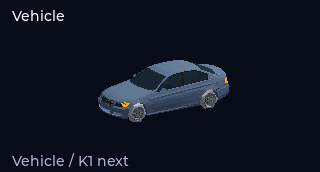
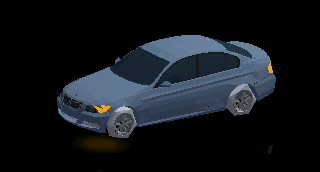
Show fullscreen E90 with surface lighting and dark drift intro

Changed region(s): [[0.1562, 0.2035, 0.875, 0.8721], [0.0312, 0.9012, 0.4062, 0.9884], [0.0312, 0.0581, 0.2188, 0.1453]]

diff --git a/firmware/wheel/components/wheel_ui/vehicle_3d.cpp b/firmware/wheel/components/wheel_ui/vehicle_3d.cpp
@@ -9,7 +9,7 @@
 #include "esp_timer.h"
 #endif
 namespace {
-constexpr unsigned W = 192, H = 104;
+constexpr unsigned W = VEHICLE_3D_WIDTH, H = VEHICLE_3D_HEIGHT;
 constexpr auto SH = tgx::SHADER_ORTHO | tgx::SHADER_ZBUFFER | tgx::SHADER_FLAT |
                     tgx::SHADER_NOTEXTURE;
 tgx::Renderer3D<tgx::RGB565, SH | tgx::SHADER_UNLIT, uint16_t> renderer;
@@ -29,6 +29,40 @@ float rad(float d) { return d * PI / 180; }
 float smooth(float x) {
   x = fmaxf(0, fminf(1, x));
   return x * x * (3 - 2 * x);
+}
+tgx::fVec3 world_point(tgx::fVec3 p, float sn, float cs, float tx, float ty) {
+  return tgx::fVec3(p.x * cs - p.y * sn + tx, p.x * sn + p.y * cs + ty, p.z);
+}
+uint16_t dim_color(uint16_t c, float factor) {
+  factor = fmaxf(0.f, fminf(1.f, factor));
+  return (uint16_t)((unsigned)(((c >> 11) & 31) * factor) << 11 |
+                    (unsigned)(((c >> 5) & 63) * factor) << 5 |
+                    (unsigned)((c & 31) * factor));
+}
+void unlit(uint16_t c) {
+  renderer.setShaders(tgx::SHADER_ORTHO | tgx::SHADER_ZBUFFER |
+                      tgx::SHADER_UNLIT | tgx::SHADER_NOTEXTURE);
+  renderer.setMaterial(tgx::RGBf(tgx::RGB565(c)), 1, 0, 0, 0);
+}
+// Bounded layered ground illumination; no off-screen pass or framebuffer copy.
+void ground_light(float x, float y, float rx, float ry, uint16_t c,
+                  float strength, float sn, float cs, float tx, float ty) {
+  for (unsigned layer = 0; layer < 5; ++layer) {
+    float scale = 1.f - layer * .14f;
+    unlit(dim_color(c, strength * (.05f + .035f * layer)));
+    float z = -.168f + layer * .0008f;
+    auto center = world_point(tgx::fVec3(x, y, z), sn, cs, tx, ty);
+    for (unsigned k = 0; k < 12; ++k) {
+      float a = 2 * PI * k / 12, b = 2 * PI * (k + 1) / 12;
+      auto p = world_point(
+          tgx::fVec3(x + rx * scale * cosf(a), y + ry * scale * sinf(a), z), sn,
+          cs, tx, ty);
+      auto q = world_point(
+          tgx::fVec3(x + rx * scale * cosf(b), y + ry * scale * sinf(b), z), sn,
+          cs, tx, ty);
+      renderer.drawTriangle(center, p, q);
+    }
+  }
 }
 void *allocate(size_t n) {
 #ifdef ESP_PLATFORM
@@ -85,7 +119,10 @@ extern "C" const lv_image_dsc_t *vehicle_3d_frame(uint64_t now, bool boot,
   if (!pixels)
     return nullptr;
   bool fresh = !active;
-  if (lamp_view_until && now >= lamp_view_until) { lamp_view_until = 0; moving = true; }
+  if (lamp_view_until && now >= lamp_view_until) {
+    lamp_view_until = 0;
+    moving = true;
+  }
   uint32_t input = (uint32_t)open | ((uint32_t)known << 8) |
                    ((uint32_t)valid << 16) | ((uint32_t)on << 24);
   if (active && !boot && !moving && input == last_input)
@@ -132,12 +169,21 @@ extern "C" const lv_image_dsc_t *vehicle_3d_frame(uint64_t now, bool boot,
     target_yaw = -58;
   else if ((open & 16) && !(open & 32))
     target_yaw = 155;
-  float move = 0;
+  float move = 0, root_yaw = 0, root_x = 0, root_y = 0;
+  float reveal = 1.f, angel_strength = 1.f;
+  float half_width;
   if (boot) {
-    float orbit = smooth((progress - .22f) / .62f);
-    yaw = orbit * 360;
-    elevation = 20 + 8 * sinf(orbit * PI);
-    move = 7 * (1 - smooth(progress / .22f));
+    float drift = smooth((progress - .58f) / .38f);
+    yaw = 0;
+    elevation = 6 + 8 * drift;
+    angel_strength = smooth((progress - .10f) / .16f);
+    reveal = smooth((progress - .30f) / .24f);
+    half_width =
+        2.55f - .70f * smooth((progress - .24f) / .30f) + 1.55f * drift;
+    root_yaw = rad(-72.f * smooth((progress - .58f) / .20f));
+    root_x = 8.f * drift * drift;
+    root_y = .7f * sinf(drift * PI);
+    move = 6.f * drift;
   } else {
     if (fresh) {
       yaw = 0;
@@ -148,18 +194,40 @@ extern "C" const lv_image_dsc_t *vehicle_3d_frame(uint64_t now, bool boot,
     elevation += (target_elev - elevation) * (1 - expf(-dt * 5));
     if (fabsf(delta) > .05f || fabsf(target_elev - elevation) > .05f)
       moving = true;
+    half_width = 2.7f + .55f * fabsf(sinf(rad(yaw))) +
+                 1.45f * smooth((elevation - 25.f) / 33.f);
+    if (known != 63 || valid != 63)
+      reveal = .45f;
   }
-  float half_width = 2.7f + .55f * fabsf(sinf(rad(yaw))) +
-                     1.45f * smooth((elevation - 25.f) / 33.f);
+  float root_sn = sinf(root_yaw), root_cs = cosf(root_yaw);
   renderer.setOrtho(-half_width, half_width, -half_width * H / W,
                     half_width * H / W, 1, 30);
+  float target_z = boot ? .30f : .48f;
   float az = rad(yaw), el = rad(elevation);
   renderer.setLookAt(tgx::fVec3(10 * sinf(az) * cosf(el),
                                 -10 * cosf(az) * cosf(el),
-                                .65f + 10 * sinf(el)),
-                     tgx::fVec3(0, 0, .65f), tgx::fVec3(0, 0, 1));
-  image.fillScreen(tgx::RGB565((uint16_t)0x0863));
+                                target_z + 10 * sinf(el)),
+                     tgx::fVec3(0, 0, target_z), tgx::fVec3(0, 0, 1));
+  image.fillScreen(tgx::RGB565((uint16_t)0));
   renderer.clearZbuffer();
+  uint8_t floor_lamps = boot ? 4 : active_lamps;
+  float floor_strength = boot ? angel_strength : 1.f;
+  if (floor_lamps & 7) {
+    float energy = (floor_lamps & 3) ? 1.f : .45f;
+    for (int side = -1; side <= 1; side += 2)
+      ground_light(side * .62f, -2.45f, .50f, .8f, 0xbfff,
+                   energy * floor_strength, root_sn, root_cs, root_x, root_y);
+  }
+  if (floor_lamps & 8)
+    ground_light(.85f, -1.90f, .65f, .55f, 0xfd20, 1, root_sn, root_cs, root_x,
+                 root_y);
+  if (floor_lamps & 16)
+    ground_light(-.85f, -1.90f, .65f, .55f, 0xfd20, 1, root_sn, root_cs, root_x,
+                 root_y);
+  if (floor_lamps & 32)
+    for (int side = -1; side <= 1; side += 2)
+      ground_light(side * .6f, 2.55f, .55f, .65f, 0xf800, 1, root_sn, root_cs,
+                   root_x, root_y);
   float sn[7] = {}, cs[7] = {1, 1, 1, 1, 1, 1, 1};
   for (unsigned i = 1; i <= 6; i++) {
     float a = angles[i] * rad(i <= 4 ? ((i == 1 || i == 3) ? -52 : 52)
@@ -194,7 +262,7 @@ extern "C" const lv_image_dsc_t *vehicle_3d_frame(uint64_t now, bool boot,
         y = py + yy * wheel_cos - zz * wheel_sin;
         z = pz + yy * wheel_sin + zz * wheel_cos;
       }
-      v[j] = tgx::fVec3(x, y + move, z);
+      v[j] = world_point(tgx::fVec3(x, y, z), root_sn, root_cs, root_x, root_y);
     }
     uint16_t color = t.color;
     bool emissive = false;
@@ -202,8 +270,8 @@ extern "C" const lv_image_dsc_t *vehicle_3d_frame(uint64_t now, bool boot,
     if (lampbit) {
       bool lit = (valid & on & lampbit) != 0;
       if (boot)
-        lit = g == 7 || (progress > .86f && ((int)(progress * 28) % 2 == 0));
-      color = lit ? 0xefbf : 0x2125;
+        lit = g == 7 && angel_strength > 0;
+      color = lit ? dim_color(0xefff, boot ? angel_strength : 1.f) : 0x2125;
       emissive = lit;
     }
     if (g >= 13 && g <= 16) {
@@ -211,9 +279,7 @@ extern "C" const lv_image_dsc_t *vehicle_3d_frame(uint64_t now, bool boot,
       float cx = fabsf((t.v[0] + t.v[3] + t.v[6]) / 3.f);
       bool indicator =
           (active_lamps & (left_lamp ? 8 : 16)) && cx > (front ? .68f : .57f);
-      bool white =
-          front && ((active_lamps & 3) || (boot && progress > .86f &&
-                                           ((int)(progress * 28) % 2 == 0)));
+      bool white = front && (active_lamps & 3);
       bool brake = !front && (active_lamps & 32);
       if (indicator && !boot) {
         color = 0xfd20;
@@ -225,6 +291,19 @@ extern "C" const lv_image_dsc_t *vehicle_3d_frame(uint64_t now, bool boot,
         color = 0xf800;
         emissive = true;
       }
+    }
+    if (!emissive)
+      color = dim_color(color, reveal);
+    if (emissive) {
+      // A dim mirrored light image below the virtual floor complements the
+      // pool. Only luminous surfaces are mirrored, avoiding a second full-car
+      // render.
+      unlit(dim_color(color, .16f));
+      tgx::fVec3 reflected[3];
+      for (unsigned k = 0; k < 3; k++)
+        reflected[k] = tgx::fVec3(v[k].x, v[k].y, -.336f - v[k].z);
+      renderer.drawTriangle(reflected[0], reflected[1], reflected[2]);
+      material_key = 0xffffffff;
     }
     uint32_t key = color | (emissive ? 0x10000u : 0);
     if (key != material_key) {

diff --git a/tests/host/ui_render.c b/tests/host/ui_render.c
@@ -200,7 +200,7 @@ static void verify_source_equivalence(void) {
        "closure masks");
 }
 static void verify_engine_pixels(void) {
-  uint16_t before[192 * 104];
+  uint16_t before[VEHICLE_3D_WIDTH * VEHICLE_3D_HEIGHT];
   for (unsigned bit = 0; bit < 6; ++bit) {
     uint8_t mask = bit == 5 ? 16 : bit == 3 ? 1 : bit == 4 ? 2 : 0;
     const lv_image_dsc_t *frame = NULL;
@@ -221,14 +221,27 @@ static void verify_engine_pixels(void) {
     frame =
         vehicle_3d_frame(test_clock += 50, false, 0, mask, 63, 63, 1u << bit);
     unsigned changed = 0;
-    for (unsigned i = 0; i < 192 * 104; ++i)
+    for (unsigned i = 0; i < VEHICLE_3D_WIDTH * VEHICLE_3D_HEIGHT; ++i)
       changed += before[i] != ((const uint16_t *)frame->data)[i];
     printf("Runtime model lamp bit%u changed %u pixels\n", bit, changed);
     assert(changed > 0);
+    frame = vehicle_3d_frame(test_clock += 50, false, 0, mask, 63, 0, 0);
+    memcpy(before, frame->data, sizeof(before));
     frame = vehicle_3d_frame(test_clock += 50, false, 0, mask, 63, 0, 63);
     assert(!memcmp(before, frame->data,
-                   sizeof(before))); /* invalid cannot illuminate */
+                   sizeof(before))); /* invalid on bits cannot illuminate;
+                                        unknown may be muted */
   }
+}
+static void verify_fullscreen(const ui_view_state_t *s) {
+  const lv_image_dsc_t *frame =
+      vehicle_3d_frame(s->now_ms, s->boot, s->boot_progress,
+                       s->boot ? s->reading.closure_open : s->doors.open,
+                       s->boot ? s->reading.closure_known : s->doors.known,
+                       s->reading.lights_valid, s->reading.lights_on);
+  assert(frame && frame->header.w == 320 && frame->header.h == 172);
+  assert(memcmp(pixels, frame->data, sizeof(pixels)) ==
+         0); /* no labels/icons/gauges */
 }
 static void verify_vehicle(const char *dir) {
   ui_view_state_t s = {.nav = {UI_ENGINE, 0},
@@ -241,7 +254,7 @@ static void verify_vehicle(const char *dir) {
   assert(ui_view_vehicle_ready());
   s.boot = true;
   uint32_t phase_hashes[7] = {0};
-  const float phases[] = {0.0f, 0.12f, 0.3f, 0.5f, 0.7f, 0.9f, 0.97f};
+  const float phases[] = {0.0f, 0.18f, 0.4f, 0.56f, 0.72f, 0.85f, 0.98f};
   for (unsigned i = 0; i < sizeof(phases) / sizeof(phases[0]); ++i) {
     s.now_ms = (test_clock += 50);
     s.boot_progress = phases[i];
@@ -249,6 +262,7 @@ static void verify_vehicle(const char *dir) {
     char name[40];
     snprintf(name, sizeof(name), "runtime-boot-%02u", i);
     capture(dir, name, &s);
+    verify_fullscreen(&s);
     uint32_t hash = 2166136261u;
     for (unsigned px = 0; px < 320 * 172; ++px)
       hash = (hash ^ pixels[px]) * 16777619u;
@@ -264,6 +278,7 @@ static void verify_vehicle(const char *dir) {
     s.doors.open = mask;
     s.now_ms = (test_clock += 50);
     equivalent(&s, false);
+    verify_fullscreen(&s);
   }
   s.doors.open = 1;
   s.doors.known = 0;
@@ -291,6 +306,7 @@ static void verify_vehicle(const char *dir) {
   s.nav.screen = UI_VEHICLE;
   s.doors = (ui_door_state_t){.known = 63};
   capture(dir, "runtime-vehicle-ready", &s);
+  verify_fullscreen(&s);
   s.maintenance = true;
   capture(dir, "runtime-vehicle-paused", &s);
   s.maintenance = false;

diff --git a/firmware/wheel/components/wheel_ui/ui_view.c b/firmware/wheel/components/wheel_ui/ui_view.c
@@ -19,6 +19,7 @@ static const lv_image_dsc_t *last_vehicle_asset;
 static bool vehicle_ready, vehicle_running;
 static uint32_t last_vehicle_generation;
 static ui_vehicle_closing_t closing;
+static ui_screen_t closing_page = (ui_screen_t)99;
 static lv_obj_t *rows[3], *selection, *qr_frame, *qr, *topline, *bottomline;
 static ui_screen_t last_screen = (ui_screen_t)99;
 static unsigned last_item = 99;
@@ -160,8 +161,10 @@ void ui_view_render(const ui_view_state_t *input) {
   bool closure_allowed =
       !input->maintenance && !input->writing && !input->offer && !input->boot &&
       (input->nav.screen == UI_ENGINE || input->nav.screen == UI_SHIFT);
-  if (last_screen != input->nav.screen)
+  if (closing_page != input->nav.screen) {
     closing = (ui_vehicle_closing_t){0};
+    closing_page = input->nav.screen;
+  }
   if (ui_vehicle_closing_step(&closing, input->now_ms, closure_allowed,
                               input->doors.visible, input->doors.open,
                               input->doors.known))
@@ -190,8 +193,10 @@ void ui_view_render(const ui_view_state_t *input) {
   if (asset &&
       (!asset->data || asset->header.magic != LV_IMAGE_HEADER_MAGIC ||
        asset->header.cf != LV_COLOR_FORMAT_RGB565 || asset->header.flags != 0 ||
-       asset->header.w != 192 || asset->header.h != 104 ||
-       asset->header.stride != 384 || asset->data_size != 39936))
+       asset->header.w != VEHICLE_3D_WIDTH ||
+       asset->header.h != VEHICLE_3D_HEIGHT ||
+       asset->header.stride != VEHICLE_3D_WIDTH * 2 ||
+       asset->data_size != VEHICLE_3D_WIDTH * VEHICLE_3D_HEIGHT * 2))
     asset = NULL;
   bool boot = s->boot && asset, has_vehicle = asset != NULL;
   bool drive = s->nav.screen == UI_ENGINE, sport = s->nav.screen == UI_SHIFT;
@@ -203,7 +208,7 @@ void ui_view_render(const ui_view_state_t *input) {
                  qr_layout != use_qr || last_overlay != door ||
                  last_boot != boot || last_vehicle_image != has_vehicle;
   ui_view_state_t graphics_state = *s;
-  if (boot) {
+  if (has_vehicle) {
     graphics_state.nav.screen = UI_SERVICE;
     graphics_state.doors.visible = false;
   }
@@ -216,6 +221,21 @@ void ui_view_render(const ui_view_state_t *input) {
   if (asset && last_vehicle_generation != vehicle_3d_generation()) {
     lv_obj_invalidate(vehicle_image);
     last_vehicle_generation = vehicle_3d_generation();
+  }
+  if (has_vehicle) {
+    /* A successful 3D scene is the whole display: no status or UI overlays. */
+    lv_obj_t *hidden[] = {title,      badge,     body,     bar,
+                          footer,     value,     unit,     provenance,
+                          gear_value, gear_unit, rpm_unit, coolant,
+                          oil,        selection, qr_frame, topline,
+                          bottomline, rows[0],   rows[1],  rows[2]};
+    for (unsigned i = 0; i < sizeof(hidden) / sizeof(hidden[0]); ++i)
+      show(hidden[i], false);
+    lv_anim_delete(rows[1], slide);
+    lv_obj_set_pos(vehicle_image, 0, 0);
+    /* Force a complete layout restore when leaving the fullscreen scene. */
+    last_screen = (ui_screen_t)99;
+    return;
   }
   if (changed) {
     lv_anim_delete(rows[1], slide);

diff --git a/firmware/wheel/components/wheel_ui/vehicle_3d.h b/firmware/wheel/components/wheel_ui/vehicle_3d.h
@@ -2,6 +2,8 @@
 #include "lvgl.h"
 #include <stdbool.h>
 #include <stdint.h>
+#define VEHICLE_3D_WIDTH 320u
+#define VEHICLE_3D_HEIGHT 172u
 #ifdef __cplusplus
 extern "C" {
 #endif

diff --git a/docs/architecture/runtime3d-v1.md b/docs/architecture/runtime3d-v1.md
@@ -4,13 +4,13 @@ The operational wheel renders actual E90 geometry with TGX1.1.4 (commit d43f8890
 
 ## Ownership and memory
 
-The existing UI task on core1 is the sole owner of both TGX rendering and LVGL. Network/core0 callbacks only publish state. The renderer contains no network, flash write or per-frame heap allocation. A192x104 RGB565 image and uint16 depth buffer consume79,872bytes in explicitly requested PSRAM. LVGL copies image pixels through the existing internal DMA draw buffers; those buffers are never repurposed as render storage. Static descriptor/pixel lifetime lasts until shutdown. The image is invalidated only when the renderer generation changes.
+The existing UI task on core1 is the sole owner of both TGX rendering and LVGL. Network/core0 callbacks only publish state. The renderer contains no network, flash write or per-frame heap allocation. A 320x172 RGB565 image and uint16 depth buffer consume 220,160 bytes in explicitly requested PSRAM. LVGL copies image pixels through the existing internal DMA draw buffers; those buffers are never repurposed as render storage. Static descriptor/pixel lifetime lasts until shutdown. The image is invalidated only when the renderer generation changes.
 
 Board evidence identifies8MB embedded octal AP_3v3 RAM. Configure auto-detection,40MHz, boot memory test and CAPS-only external allocation; keep ordinary malloc/stacks/DMA, XIP/rodata and Wi-Fi allocation policy unchanged. Missing PSRAM results in a checked unavailable/vector path. The boot health gate explicitly checks internal8bit memory so external RAM cannot hide its20KB minimum.
 
 ## Scene behavior
 
-The5second boot scene rolls the car in with wheel rotation, orbits it, and flashes the front lamps. It is decorative and immediately interruptible by input, maintenance or a fresh opening. Runtime door/panel transforms use retained normalized closure state; unknown is never forced closed. Camera yaw/elevation follows one-sided openings or a higher viewpoint for both sides. Closed-state lamps can be inspected on the Vehicle page. An explicit Lights unknown caption represents incomplete lamp validity; unknown signals never produce illuminated mesh parts.
+The 5-second boot scene starts black and frontal, fades in only the angel eyes, reveals the body while zooming closer, then yaws and slides the car off-screen with wheel rotation. It is decorative and immediately interruptible by input, maintenance or a fresh opening. Runtime door/panel transforms use retained normalized closure state; unknown is never forced closed. Camera yaw/elevation follows one-sided openings or a higher viewpoint for both sides. Closed-state lamps can be inspected on the Vehicle page. Successful 3D scenes occupy the full display without text, icons or gauges. Incomplete validity dims the car; unknown signals never produce illuminated mesh parts. Text remains available on diagnostic, service and unavailable/paused fallback pages.
 
 Actual E90 mesh:2498triangles,99,920bytes plus48bytes wheel pivots, generated from the attributed prepared Blender model. Separate groups cover body, four doors, trunk, hood, angel eyes, high beam and four wheels. Sampled per-face material/texture colors replace expensive runtime textures. Hinge angles and the division of lens surfaces into lighting functions are illustrative, not measured CAD geometry. Actual front/rear lens meshes receive emissive unlit shading. With no openings, camera focus follows active indicators/brakes and briefly retains the view across off phases; only incoming bits control emitted light.
 
@@ -19,3 +19,7 @@ Rendering is bounded to one frame per50ms at most, skips missed frames, and stop
 ## Validation gates
 
 Require actual-mesh host captures, incremental/full LVGL pixel comparison, latest-state throttle tests, maintenance/navigation interruption and unknown-state tests. On hardware verify PSRAM discovery/memtest, boot self-test, render timing, internal heap and UI stack low-water marks under BLE/LED activity. Qualify Wi-Fi discovery separately; host timing is not physical display latency. Refer to the dated validation report for results, not this design target.
+
+## Surface lighting
+
+Light pools are bounded, layered world-space polygons on a virtual ground plane. Only emissive lamp faces receive a dim mirrored reflection, avoiding a second full-car render. These are stylized reflection cues, not ray-traced illumination. Both live gateway lighting and the decorative boot angel eyes use these effects. They use the same depth-tested renderer and do not allocate per-frame buffers.

diff --git a/docs/validation/2026-09-28-fullscreen3d.md b/docs/validation/2026-09-28-fullscreen3d.md
@@ -1,0 +1,24 @@
+# Fullscreen 3D and surface lighting validation
+
+The successful Vehicle, closure and boot scenes now occupy the full 320x172 display with no text, icons or gauges. Service/OTA and unavailable/paused fallback screens remain usable. The boot sequence is black → front angel eyes → body reveal/zoom → yawing lateral drift off-screen. Light pools and dim mirrored emissive faces provide stylized surface reflection without a second full mesh pass.
+
[1 lines of base64/hex data omitted]
+
+Actual TGX/LVGL host verification: 1,459 incremental/full comparisons pass. Whole-screen pixel equality with the renderer proves no UI overlays on successful boot, Vehicle and all 64 closure scenes. Six lighting changes, unknown-source behavior, throttled updates and maintenance restoration remain covered. Native boot captures at progress 0/.18/.4/.56/.72/.85/.98 were inspected: only rings initially, body emerges, then car exits; final black frame is intentional. Close-up roof cropping during the boot zoom is intentional; ordinary multi-opening views retain the full model.
+
+The two external buffers now use 220,160 bytes. The 90-second physical run passed PSRAM and boot self-tests. Runtime timing is materially slower than the smaller viewport: roughly 56 ms CPU render and 100 ms total boot UI cycle. This is a functional visual increment, not a high-FPS or physical-input-latency qualification. Static scenes stop flushing and normal non-3D menus remain independent. Final visual owner confirmation and exact-build Wi-Fi/OTA regression are pending.
+
+## Private capture measurements
+
[1 lines of base64/hex data omitted]
+
+- `render_avg_us` logged range: 55531–56912.
+- `render_max_us` logged range: 67744–67744.
+- `period_avg_us` logged range: 5134–105499.
+- `internal_heap_min` logged range: 76216–76216.
+- `internal_largest` logged range: 31744–31744.
+- `stack_free` logged range: 1040–1040.
+
+Period averages mix boot, transitions and settled scenes; they are not display FPS.
+
[1 lines of base64/hex data omitted]
